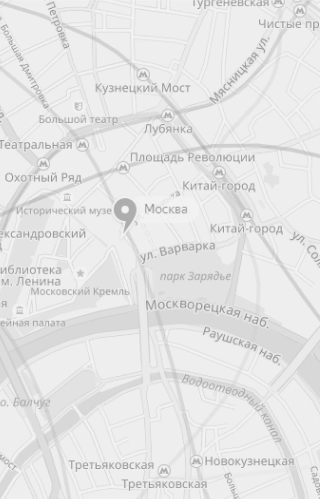
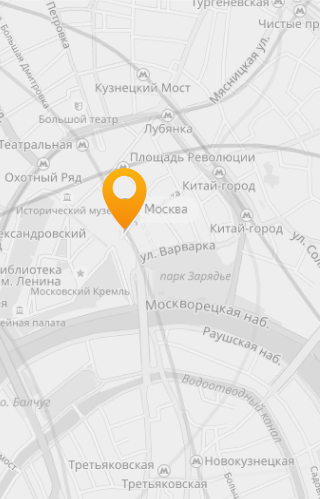
Поменяла подложку карты

Changed region(s): [[0.3125, 0.3307, 0.4688, 0.481]]

diff --git a/source/index.html b/source/index.html
@@ -320,6 +320,7 @@
           </div>
         </div>
       </section>
+      </div>
       <article class="contacts" id="contacts">
         <section class="address">
 
@@ -377,12 +378,9 @@
           </div>
         </section>
     <section class="map">
-      <div class="map__icon">
-        <svg width="44.17" height="55"><use xlink:href="icons/sprite.svg#map-icon"></use></svg>
-      </div>
     </section>
       </article>
-      </div>
+
       <section class="feadback visually-hidden">
         <div class="feadback__window">
           <p class="feadback__legend">Заказать обратный звонок</p>

diff --git a/source/less/map.less b/source/less/map.less
@@ -7,12 +7,6 @@
   width: 320px;
 }
 
-.map__icon {
-  position: absolute;
-  top: 175px;
-  left: 102px;
-}
-
 @media (min-width: @tablet-width) {
   .map {
     min-height: 499px;
@@ -23,12 +17,6 @@
     width: @tablet-width;
   }
 
-  .map__icon {
-    position: absolute;
-    top: 172px;
-    left: auto;
-    right: 52px;
-  }
 }
 
 
@@ -39,13 +27,8 @@
     background-repeat: no-repeat;
     position: relative;
     margin: 0 auto;
-    width: @desktop-width;
+    width: 100%;
+    max-width: 1920px;
   }
 
-  .map__icon {
-    position: absolute;
-    top: 312px;
-    left: auto;
-    right: 373px;
-  }
 }

diff --git a/source/less/address.less b/source/less/address.less
@@ -108,11 +108,11 @@
   }
 }
 
-@media (min-width: @desktop-width) {
+@media (min-width: 1200px) {
   .address__container {
     position: absolute;
     top: 0;
-    left: -10px;
+    left: 17.7%;
     min-height: 340px;
     width: 280px;
     z-index: 20;
@@ -120,7 +120,7 @@
   }
 
   .address {
-    width: 1200px;
+    width: 100%;
     margin: 0 auto;
     z-index: 20;
     background-color: @white;

diff --git a/source/less/contacts.less b/source/less/contacts.less
@@ -13,10 +13,12 @@
   }
 }
 
-@media (min-width: @desktop-width) {
+@media (min-width: 1200px) {
   .contacts {
+    min-width: 1200px;
     position: relative;
-    width: @desktop-width;
+    width: 100%;
+    max-width: 1920px;
     margin: 0 auto;
   }
 }
